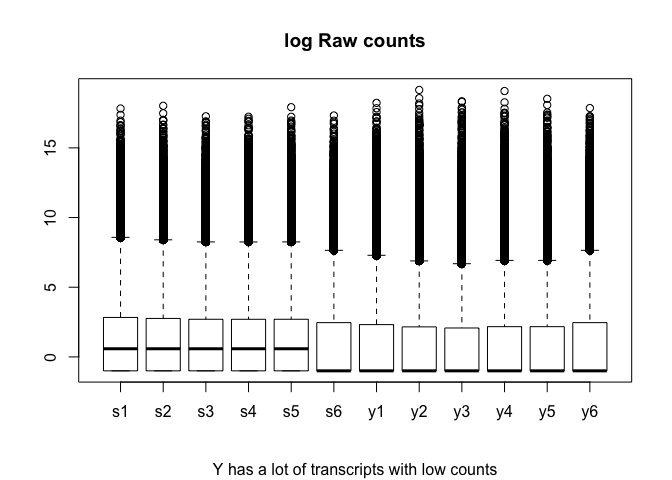
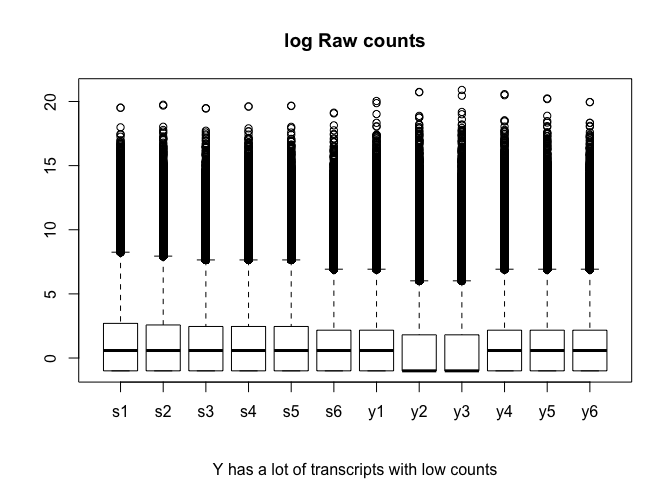
update links

diff --git a/DE_analysis_eels.md b/DE_analysis_eels.md
@@ -16,31 +16,31 @@ library(pheatmap)
 library(edgeR)
 library("RColorBrewer")
 
-counts=read.csv("~/Trinity_trans.isoform.counts.matrix", sep="", head=T)
+counts=read.csv("results_files/RSEM_gene_counts.txt", sep="", head=T)
 head(counts)
 ```
 
-    ##                           silver_rep1 silver_rep2 silver_rep3 silver_rep4
-    ## TRINITY_DN13198_c0_g1_i9        2.055          33           0           0
-    ## TRINITY_DN5595_c0_g1_i4         0.000           0           0           0
-    ## TRINITY_DN64022_c0_g1_i1        1.000           1           1           1
-    ## TRINITY_DN76306_c0_g1_i1        2.000           2           0           1
-    ## TRINITY_DN112308_c0_g1_i1      15.000           4          10          17
-    ## TRINITY_DN146125_c0_g1_i1       0.000           0           0           0
-    ##                           silver_rep5 silver_rep6 yellow_rep1 yellow_rep2
-    ## TRINITY_DN13198_c0_g1_i9       12.145           0      21.502          39
-    ## TRINITY_DN5595_c0_g1_i4         0.000           0       0.000           0
-    ## TRINITY_DN64022_c0_g1_i1        1.000           0       0.000           0
-    ## TRINITY_DN76306_c0_g1_i1        0.000           0       0.000           0
-    ## TRINITY_DN112308_c0_g1_i1       9.000          15       9.000          29
-    ## TRINITY_DN146125_c0_g1_i1       0.000           0       0.000           5
-    ##                           yellow_rep3 yellow_rep4 yellow_rep5 yellow_rep6
-    ## TRINITY_DN13198_c0_g1_i9        4.959      93.021           0       0.000
-    ## TRINITY_DN5595_c0_g1_i4         0.000       0.000           0     136.766
-    ## TRINITY_DN64022_c0_g1_i1        0.000       0.000           0       1.000
-    ## TRINITY_DN76306_c0_g1_i1        0.000       0.000           0       0.000
-    ## TRINITY_DN112308_c0_g1_i1       9.000      34.000           5      28.000
-    ## TRINITY_DN146125_c0_g1_i1       0.000       0.000           2       0.000
+    ##                        silver_rep1 silver_rep2 silver_rep3 silver_rep4
+    ## TRINITY_DN0_c0_g1             6861     6563.66     5170.09        6797
+    ## TRINITY_DN100000_c0_g1           2        1.00        3.00           0
+    ## TRINITY_DN100001_c0_g1           0        0.00        0.00           1
+    ## TRINITY_DN100002_c0_g1           2        0.00        0.00           0
+    ## TRINITY_DN100003_c0_g1           1        2.00        2.00           0
+    ## TRINITY_DN100004_c0_g1           5        2.00        2.00           2
+    ##                        silver_rep5 silver_rep6 yellow_rep1 yellow_rep2
+    ## TRINITY_DN0_c0_g1          6089.59     6081.01     5431.87        2569
+    ## TRINITY_DN100000_c0_g1        1.00        3.00        0.00           0
+    ## TRINITY_DN100001_c0_g1        0.00        1.00        0.00           1
+    ## TRINITY_DN100002_c0_g1        0.00        0.00        1.00           0
+    ## TRINITY_DN100003_c0_g1        0.00        1.00        0.00           1
+    ## TRINITY_DN100004_c0_g1        5.00        5.00        2.00           7
+    ##                        yellow_rep3 yellow_rep4 yellow_rep5 yellow_rep6
+    ## TRINITY_DN0_c0_g1             3088        3603        4274        5017
+    ## TRINITY_DN100000_c0_g1           0           5           0           0
+    ## TRINITY_DN100001_c0_g1           0           0           0           0
+    ## TRINITY_DN100002_c0_g1           0           0           0           0
+    ## TRINITY_DN100003_c0_g1           2           0           1           1
+    ## TRINITY_DN100004_c0_g1           3           8           6          10
 
 ``` r
 colnames(counts)
@@ -67,9 +67,7 @@ dge <- DGEList(counts=counts)
 keep <- filterByExpr(counts, des) # inside function of limma aware of the design to remove rad counts
 dge <- dge[keep,keep.lib.sizes=FALSE]
 
-cutoff <- 4
-keep <- !(apply(cpm(dge), 1, mean) < cutoff) # remove gene with average cpm below 2
-dge <- dge[keep,keep.lib.sizes=FALSE]
+
 
 dge<- calcNormFactors(dge)
 print("After filtering, kept a matrix of X genes by Y samples:")
@@ -78,17 +76,17 @@ print("After filtering, kept a matrix of X genes by Y samples:")
     ## [1] "After filtering, kept a matrix of X genes by Y samples:"
 
 ``` r
-dim(dge)
+dim(dge) 
 ```
 
-    ## [1] 24725    12
+    ## [1] 32447    12
 
 ### Some visualisation after basic filtering
 
 ``` r
 ###all counts
 logCounts = log2(as.matrix(counts)+ 0.5)
-boxplot(as.matrix(logCounts) ~ col(logCounts),names=c("s1","s2","s3","s4","s5","s6","y1","y2","y3","y4","y5","y6"),main= "log Raw counts",sub="Y has a lot of transcripts with low counts")
+boxplot(as.matrix(logCounts) ~ col(logCounts),names=c("s1","s2","s3","s4","s5","s6","y1","y2","y3","y4","y5","y6"),main= "log Raw counts",sub="Y has a lot of transcripts with low counts",main="Counts before filtering")
 ```
 
 ![](DE_analysis_eels_files/figure-markdown_github/unnamed-chunk-3-1.png)
@@ -96,7 +94,7 @@ boxplot(as.matrix(logCounts) ~ col(logCounts),names=c("s1","s2","s3","s4","s5","
 ``` r
 ###dge
 logCounts = log2(as.matrix(dge)+ 0.5)
-boxplot(as.matrix(logCounts) ~ col(logCounts),names=c("s1","s2","s3","s4","s5","s6","y1","y2","y3","y4","y5","y6"),main= "log filtered counts",sub="Those low yellow transcripts are filtered out")
+boxplot(as.matrix(logCounts) ~ col(logCounts),names=c("s1","s2","s3","s4","s5","s6","y1","y2","y3","y4","y5","y6"),main= "log filtered counts")
 ```
 
 ![](DE_analysis_eels_files/figure-markdown_github/unnamed-chunk-3-2.png)
@@ -105,8 +103,8 @@ boxplot(as.matrix(logCounts) ~ col(logCounts),names=c("s1","s2","s3","s4","s5","
 print(paste(c("number of transcripts:"," before filtering ",dim(counts)[1]," after filtering ",dim(dge)[1])))
 ```
 
-    ## [1] "number of transcripts:" " before filtering "     "282469"                
-    ## [4] " after filtering "      "24725"
+    ## [1] "number of transcripts:" " before filtering "     "171620"                
+    ## [4] " after filtering "      "32447"
 
 ``` r
 print("While we get rid of most transcripts (lowly expressed), we keep a high proportion of all reads per samples")
@@ -119,9 +117,57 @@ apply(dge,2,sum)/apply(counts,2,sum)
 ```
 
     ## silver_rep1 silver_rep2 silver_rep3 silver_rep4 silver_rep5 silver_rep6 
-    ##   0.8969026   0.8989267   0.8945996   0.9019418   0.9010823   0.9030584 
+    ##   0.9913808   0.9916407   0.9918556   0.9926842   0.9923784   0.9922659 
     ## yellow_rep1 yellow_rep2 yellow_rep3 yellow_rep4 yellow_rep5 yellow_rep6 
-    ##   0.9191603   0.9322053   0.9290142   0.9238717   0.9200671   0.9160665
+    ##   0.9930030   0.9936932   0.9932939   0.9927278   0.9925403   0.9934591
+
+### Basic stats post filtering
+
+How many reads per gene? This is the distribution in 5% quantiles of number of reads per sample per gene
+
+``` r
+quantile(apply(dge$counts,1,sum)/12,seq(0,1,0.05))
+```
+
+    ##           0%           5%          10%          15%          20%          25% 
+    ## 6.583333e+00 1.241667e+01 1.548000e+01 1.916667e+01 2.375050e+01 2.991667e+01 
+    ##          30%          35%          40%          45%          50%          55% 
+    ## 3.785683e+01 4.850000e+01 6.283333e+01 8.266783e+01 1.103333e+02 1.489417e+02 
+    ##          60%          65%          70%          75%          80%          85% 
+    ## 2.071957e+02 2.924917e+02 4.198758e+02 6.036175e+02 8.733327e+02 1.250425e+03 
+    ##          90%          95%         100% 
+    ## 1.980895e+03 3.443662e+03 1.084269e+06
+
+Up to 1e6 (maybe rRNA, to check). It means the most expressed genes has 1mio/reads per sample
+
+median is about ten.
+
+Let's visualise it for the bottom 85% (up to 2000)
+
+``` r
+hist(apply(dge$counts,1,sum)/12,xlim=c(0,2000),breaks=100000,main="number of reads per gene per sample",xlab= "number of reads per sample",ylab= "frequency") # 32447 genes passing filtering
+```
+
+![](DE_analysis_eels_files/figure-markdown_github/unnamed-chunk-5-1.png)
+
+What are the most expressed genes above 1000000 per sample:
+
+``` r
+which(apply(dge$counts,1,sum)/12>1e6)
+```
+
+    ## TRINITY_DN2028_c0_g1 TRINITY_DN4587_c0_g1 
+    ##                10912                21449
+
+TRINITY\_DN2028\_c0\_g1 sequence matches Anguilla japonica eZPCa mRNA for egg envelope protein, complete cds:
+
+    >TRINITY_DN2028_c0_g1_i11 RANDOMLY PICKED ISOFORM
+    TACAGTAACCTCATGATCCATGCAGTCTGGCTACTGCATTGAAAGCTGCTTGGGGGGGGGGGGGAAATCCAAAACTTGATATAATGGAAGGTACAGAAATGTGGACTCAGAACACAATGATCTGGACAGCACGTTTTGAGGCACTTCAAGTTTTATTCAAAAATCCCCACCCAGTTACAGGACAGGTTTGTAGCGTCTCCACATCAGCACCATCCCCAGCGCAATGATGCAGACCAGTCCCACTGCAGCCATCACTCCAGCCATAAATACCACCTTAGAGGCACCTTCTGCTTGGTGATCTGCATTCAGAGGGCTGATGGACTCAGGTACATCTTTGACAGCCTCCTGGACAACAATTGGGCCTAGGACTGCGCCACCCTCATACTGTATGCCTGTATTCACACTCCTTATCTTCCTCCCACCACAGCTGGTGTCACAGCAGCTACATGCCTGGTCATTCCCAGATGCCTCAATCCACCGTTCCTTCCCAAGAGGAAATGAGCAAGCCTTCCCTTCTGAATCTGGCAAAGCTGCAGTAGCCTTCAGATAGCAGAAAATGTAGACAGCACTCCTGGTCTCCTGGGCAAACCTGAAGGCATCCAGCTGAAGTTGCAGCTTGTCGTCCTGTACCCTTGACAGGAACTGGGAGCGGGAGTTGGTCAGCTTGGAATCCATTAGACACCCCTTGTTCTCAATGAAAGCATATCTGGGGACAGCGTTCATGTCAGGGTCCAAAGTAGCTATACAGGTATCCACAAACACGCGGAGGGGCACGTGGTTGGCCTGGACCACTGAAGCCTCAATGTTGATGAGGTCACCCAGGAAGAACACCGTGGATGTCCTCTCCGTCTGCCAGTTATCAGCCATGAGCCTTAATGAAAATACAAGGAGGTCCTCAGCAGAAAGGGTGGAGTGGTAGGGGATCCAGGTTGGCTTCAGGGCATTACTGCTCACGTTATGCAGCCTCATGTAATGACACTGGATGCCCACCACTGCACTTGATGTCCTAATGATGGGAGTGGCACCAAGTGCTTTAGGTTGGTAGTTCAGGGTGAAGGTGTACACTAGGGAGTCAGCAGTCATTGCAAGCACACTGCCACAGCTGTGCAGCTCAGTCTCAAATAGAAGCACTTGGGTAGACCCATCCAGGTCAACAGGTCCGCAGCCTCCTAGGGTGATGTCAGTGGGCTGGATAAGGTGGCCGATGCCAAGCAGGTCCATATCTACTTCCAACTGAACAGAGCTTTCCCCACAGTGAGCCTTCACAGCATCTGGCTTAGGTGTAGGAGGTTCCACTGGAATTGTTGACC
+
+TRINITY\_DN4587 matches PREDICTED: Anguilla anguilla zona pellucida sperm-binding protein 4-like (LOC118223083), mRNA
+
+    >TRINITY_DN4587_c0_g1_i12 len=1019 path=[4:0-44 6:45-214 7:215-228 8:229-252 9:253-342 11:343-487 12:488-566 14:567-597 15:598-681 17:682-711 19:712-968 20:969-1018]
+    ACTTCACTGTGAAGCCTCTGGTCGGTGGCTGTAAGCTCCGTATTGGTCAGGACTACAGGCTTACTGGAAACCACAGCCTTTTCCTCAGGGGACCGCTTGCCTACAGGAGCAATTGACCTTCTTTGCTTTCCACTGCTGCACCGCTGTTCACAGCGATCGGTAGCAGAGGGGTGGCAAACTGCCGTGCTACAGTGGATGAACACCGTTTCCTTCAGTGGAACGAAGGATTCAGGATCCACAAAGGTAAACATCTGCACAATAAACCGCTTGTAGTGACTGGGGAAGAGAAGTCCAGAAGAGGCATCTACAGGAACCAAGGATGTCTGGTAGCGGTCATCACGGTAGGGAGACCCATCAACCAAAAGGCTCCACTGGGGTAGGCTGAGGGGGCTGGAGGTTGATGTAGCCCAGCAGTGTTCCAGAAGCAGGACAAGGTTTGGGTCAGTCCTCTCCAAGATCCGCACTTCCACATACACAGGTTCCCGTAGCACCTTGGTCACGGGGTAGTCCGCATCTCCGTAGTAGTCGCTGTACACAGCATCAGCACATCCACTTGCTCCTTTGGAGTCACATTGACCACTAGCCAGTCTGAGCTCAATGCGAAGGGGCCCTGGAGCAGCTACTGGAAGGGGAGGCGGCACTGTATTCACCTCAGCTACTAAAGAAACCACAGCACTGCCAGAATACCTGCACTGGAAGGACAGCTCATAAATACTGTCCCTTGTGATGGAACCTAAAGGGCCAACGCCCACTTCATATGTGGAGGACATCTTGTTCTCATAGATCACGTAATCCCCTTCCACCCTCACTGTGGTTCCACAGTCACTGACTGGAAATTGGAAGACCGCAAAAGCAGGAGAGGCACTAACAGGACCACAGTAACCGCCACTGGGGCCCTCCAGCAAGTTCACAGAAGGAAGGTCAAGCAGAGGCAAGGTGGCGGCTCTGGACACTACAACCATGAACTGGCCATCCCGGAGACAGTGGACAGTAACTTCATTTGCATAATAGCACTGTTG
 
 ### DE analysis
 
@@ -132,42 +178,61 @@ design <- model.matrix(~samples$treatment)
 v <- voom(dge, design, plot=TRUE, normalize="quantile")
 ```
 
-![](DE_analysis_eels_files/figure-markdown_github/unnamed-chunk-4-1.png)
+![](DE_analysis_eels_files/figure-markdown_github/unnamed-chunk-7-1.png)
 
 ``` r
-plotMDS(v, labels=colnames(v), main="MDS plot", col=rep(c("blue","red"),each=6))
+plotMDS(v, labels=c("s1","s2","s3","s4","s5","s6","y1","y2","y3","y4","y5","y6"),main="MDS plot", col=rep(c("gray","gold"),each=6))
 ```
 
-![](DE_analysis_eels_files/figure-markdown_github/unnamed-chunk-4-2.png)
+![](DE_analysis_eels_files/figure-markdown_github/unnamed-chunk-7-2.png)
 
 ``` r
 fit <- lmFit(v, design)
 fit <- eBayes(fit, trend=TRUE)
 results<-topTable(fit, coef=ncol(design),n=Inf)
-sum(results$adj.P.Val<0.05) #How many DE genes?
+
+sum(results$adj.P.Val<0.05)
 ```
 
-    ## [1] 2878 # DE GENES
+    ## [1] 10348
 
 ``` r
 ##Table of DE genes
-DE_counts<-dge[results$adj.P.Val<0.05,]
-DE_results<-results[results$adj.P.Val<0.05,] # DE_results are only the significant genes
+
+#DE_counts are the counts for the DE 
+DE_results<-results[results$adj.P.Val<0.05,] # DE_results are only the significant genes(p-value, log Fold-change,,,)
+ 
+DE_counts<-dge[which(rownames(dge)%in%rownames(results)),]$counts #counts for significant genes
 
 
 #positive means more in yellow
 #negative means more in gray
 
-length(which(DE_results$logFC<0)) # how many genes under expressed in yellow
+
+##Overexpressed and underexpressed in general?
+length(which(DE_results$logFC<(-1))) # how many genes under expressed in yellow  or more
 ```
 
-    ## [1] 1481
+    ## [1] 2851
 
 ``` r
-length(which(DE_results$logFC>0)) # how many genes over expressed in yellow
+length(which(DE_results$logFC>1)) # how many genes over expressed in yellow
 ```
 
-    ## [1] 1397
+    ## [1] 2027
+
+``` r
+##Overexpressed and underexpressed  by a actor 2 or more
+length(which(DE_results$logFC<(-1))) # how many genes under expressed in yellow by a 
+```
+
+    ## [1] 2851
+
+``` r
+length(which(DE_results$logFC>1)) # how many genes over expressed in yellow
+```
+
+    ## [1] 2027
 
 ``` r
 ###Volcano plot (relationship between Log Fold Change and -value)
@@ -175,16 +240,33 @@ plot(results$logFC,-log(results$adj.P.Val),pch=10,cex=0.1)
 points(DE_results$logFC,-log(DE_results$adj.P.Val),pch=10,cex=0.1,col="red")
 ```
 
-![](DE_analysis_eels_files/figure-markdown_github/unnamed-chunk-4-3.png)
+![](DE_analysis_eels_files/figure-markdown_github/unnamed-chunk-7-3.png)
 
 ``` r
 plot(results$AveExpr,results$logFC,pch=10,cex=0.1)
 points(DE_results$AveExpr,DE_results$logFC,pch=10,cex=0.1,col="red")
 ```
 
-![](DE_analysis_eels_files/figure-markdown_github/unnamed-chunk-4-4.png)
+![](DE_analysis_eels_files/figure-markdown_github/unnamed-chunk-7-4.png)
+
+Let's output those results as text tables that everyone can play with ( in excel or other). I saved it as [DE\_results.txt](DE_results.txt)
 
 ``` r
-#Look at gene express only in one of the two, look at extreme genes ... on top of volcano plot. Those ref ones have low variance within, higher between
-#Should I filter more?
+final_results_DE<-merge(DE_results,DE_counts,by=0)
+colnames(final_results_DE)[1]<-"GeneID"
+write.table(final_results_DE,"DE_results.txt",row.names=T,col.names=T,sep="\t")
+```
+
+we also output the 32447 genes representing the whole genome for the GOSeq analysis:
+
+``` r
+write(rownames(dge$counts),"backgroundGO.txt",sep="\n")
+```
+
+And finally we u8pload the results for ALL the genes:
+
+``` r
+final_results<-merge(results,dge$counts,by=0)
+colnames(final_results)[1]<-"GeneID"
+write.table(final_results,"ALLgenes_results.txt",row.names=T,col.names=T,sep="\t")
 ```
